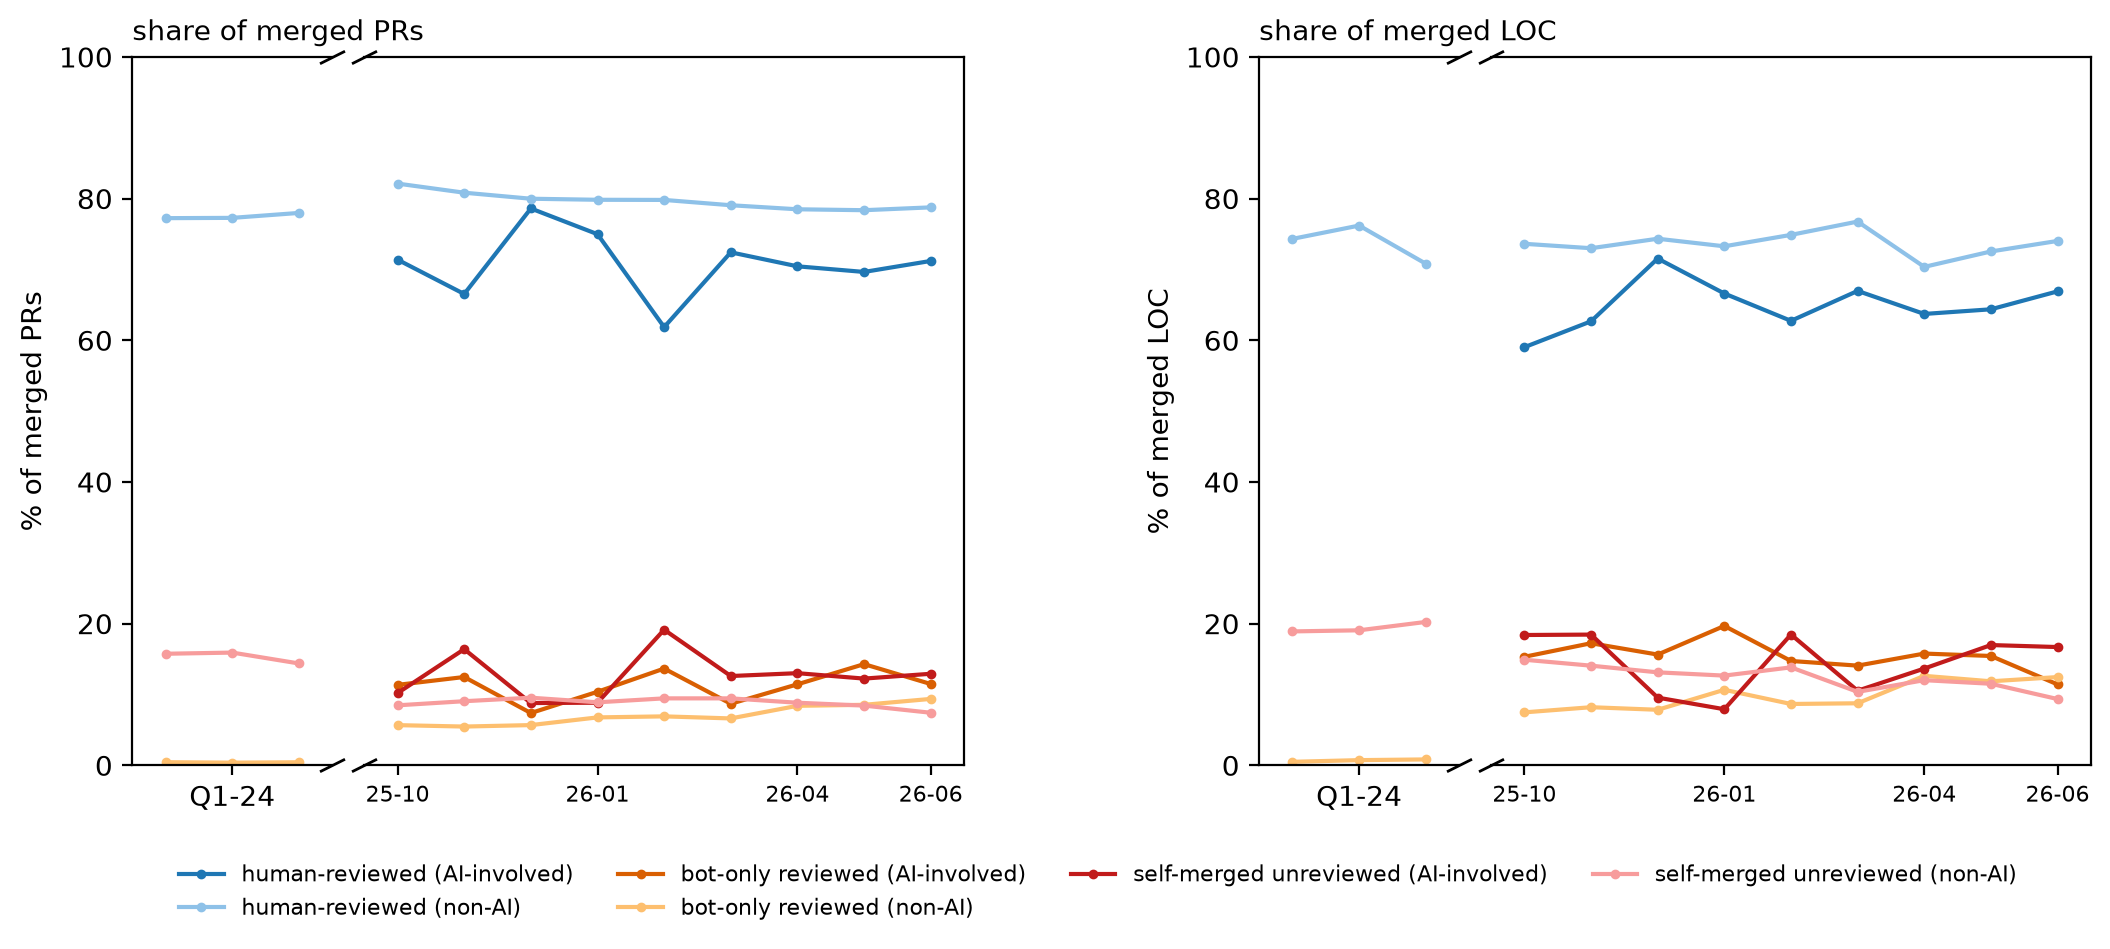
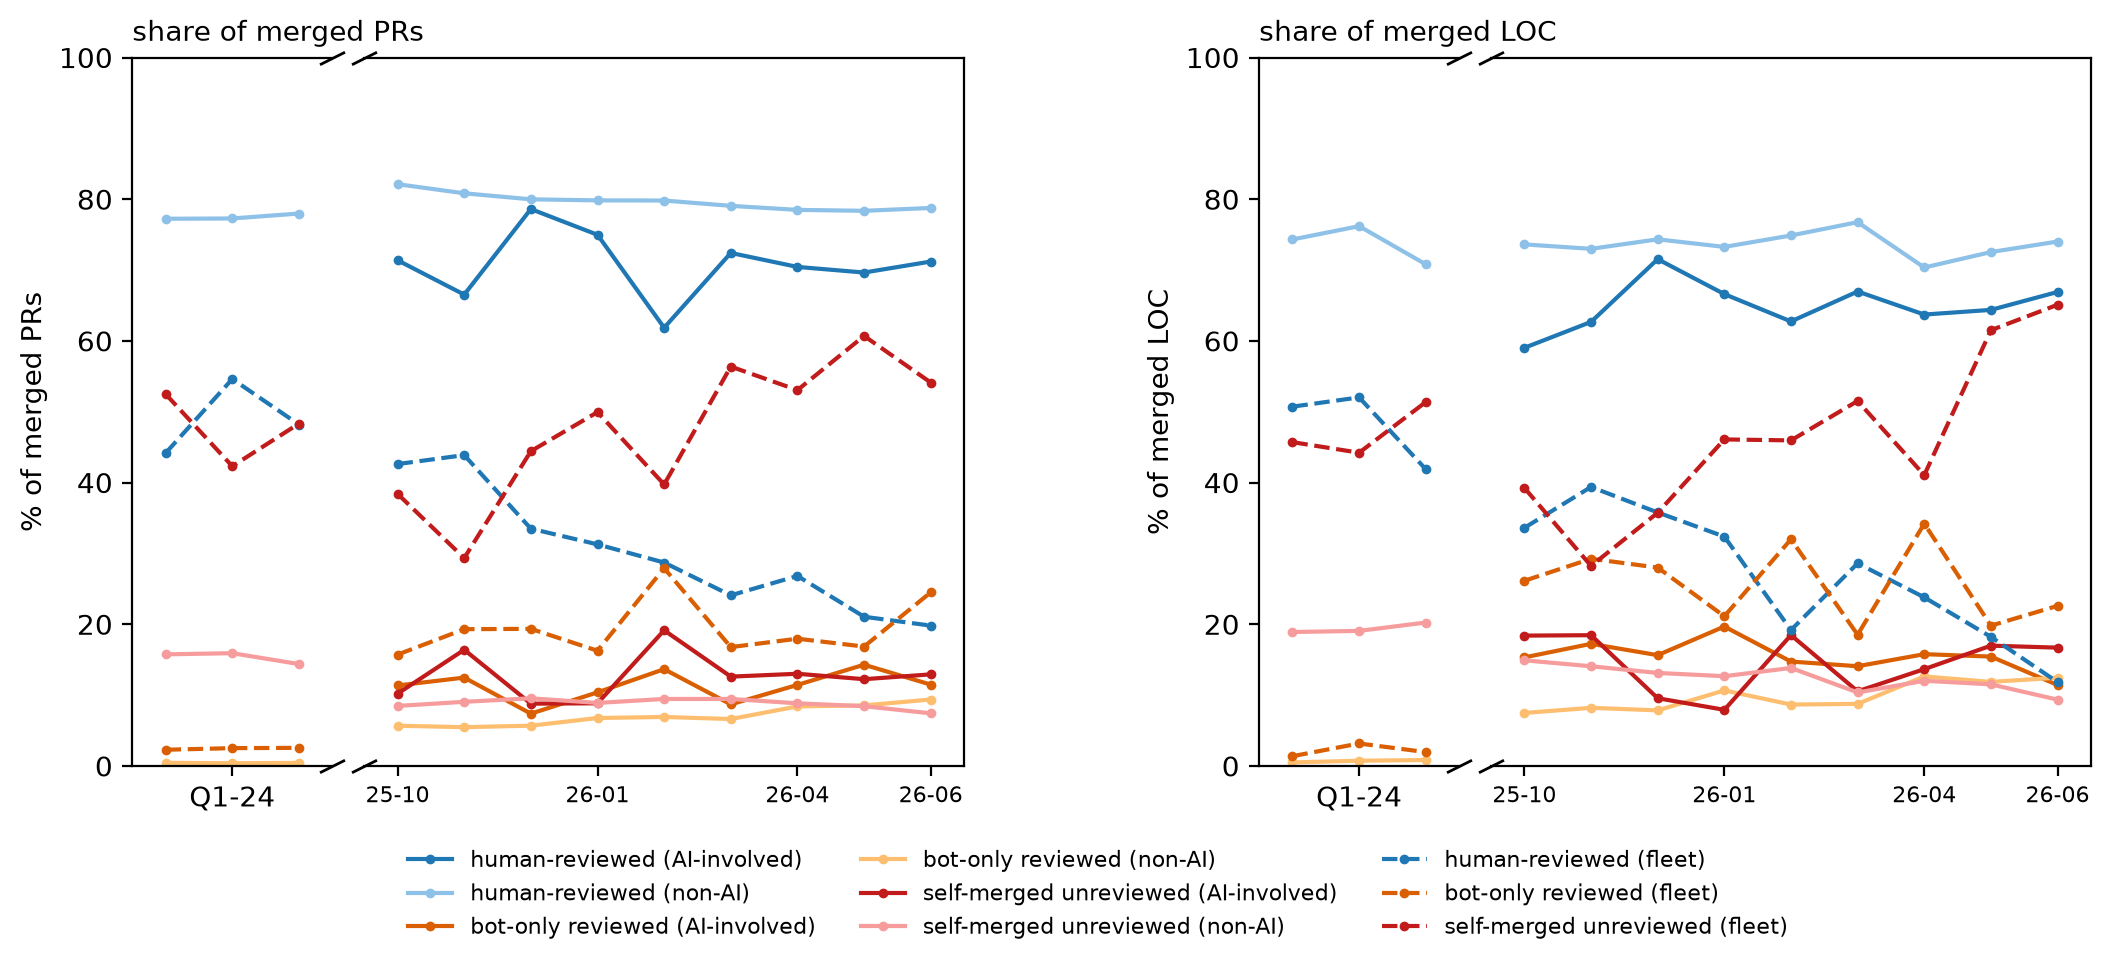
Codex review: fleet slice reaches Figure 6's monthly AI twin
The merge resolution threaded fleet through fig7's monthly twin but
missed fig6's: collect_monthly/render_monthly still used
paired_series6 and review_mix() without the fleet slice, so the monthly
by-AI table carried six series against the quarterly figure's nine.
The fleet flag now flows through collect_monthly, render_monthly and
monthly_figures() (role variant unchanged), and the by-AI monthly
table/image are regenerated with the fleet series.

diff --git a/scripts/plot_fig6_review.py b/scripts/plot_fig6_review.py
@@ -91,17 +91,21 @@ def render(t: Table, dark, light, fleet=False):
     return fig
 
 
-def collect_monthly(name, by, dark, light,
+def collect_monthly(name, by, dark, light, fleet=False,
                     window: list[str] | None = None) -> Table:
     """Monthly twin (plot_all --monthly): month-keyed rates over the
     baseline + window months; provisional months stay in, shaded at
-    render."""
+    render. `fleet` matches the quarterly variant, so the twins share
+    one population."""
     window = window or month_window()
     months = BASELINE + window
-    rows = review_mix(by, granularity="month", window=window)
+    rows = (review_mix(by, fleet_slice=True, granularity="month",
+                       window=window)
+            if fleet else review_mix(by, granularity="month",
+                                     window=window))
     t = Table(name)
     for unit, title, _ylabel in UNITS:
-        for ch, sl, _color, label in paired_series6(dark, light):
+        for ch, sl, _color, _ls, label in series_for(dark, light, fleet):
             t.add_series(unit, f"{ch}_{sl}",
                          [cell(rows, m, sl, f"{ch}_{unit}", scale=100)
                           for m in months],
@@ -110,23 +114,24 @@ def collect_monthly(name, by, dark, light,
     return t
 
 
-def render_monthly(t: Table, dark, light):
+def render_monthly(t: Table, dark, light, fleet=False):
     window = window_of(t)
     fig = plt.figure(figsize=(11, 4.6))
     subfigs = fig.subfigures(1, 2, wspace=0.05)
     for sf, (unit, _title, ylabel) in zip(subfigs.flat, UNITS):
         axl, axr = broken_pair(sf, t.label_of(unit), span="month",
                                window=window)
-        for ch, sl, color, label in paired_series6(dark, light):
+        for ch, sl, color, ls, label in series_for(dark, light, fleet):
             vals = t.values(unit, f"{ch}_{sl}")
             month_series(axl, axr, vals[:len(BASELINE)],
-                         vals[len(BASELINE):], color, label=label)
+                         vals[len(BASELINE):], color, ls=ls, label=label)
         shade_provisional(axr, window)
         axl.set_ylim(0, 100)
         axl.set_ylabel(ylabel)
     handles, labels = axr.get_legend_handles_labels()
-    fig.legend(handles, labels, loc="lower center", ncol=4, fontsize=8,
-               frameon=False, bbox_to_anchor=(0.5, -0.08))
+    fig.legend(handles, labels, loc="lower center",
+               ncol=3 if fleet else 4, fontsize=8, frameon=False,
+               bbox_to_anchor=(0.5, -0.1 if fleet else -0.08))
     return fig
 
 

diff --git a/scripts/plot_all.py b/scripts/plot_all.py
@@ -121,12 +121,12 @@ def monthly_figures(through: str | None = None) -> list[tuple]:
          paper.render_core_monthly),
         ("artifacts/review_mix_monthly.png",
          functools.partial(f6.collect_monthly, "review_mix_monthly",
-                           ROLE[0], ROLE[1], ROLE[2], window=w),
-         lambda t: f6.render_monthly(t, ROLE[1], ROLE[2])),
+                           ROLE[0], ROLE[1], ROLE[2], ROLE[4], window=w),
+         lambda t: f6.render_monthly(t, ROLE[1], ROLE[2], ROLE[4])),
         ("artifacts/review_mix_by_ai_monthly.png",
          functools.partial(f6.collect_monthly, "review_mix_by_ai_monthly",
-                           AI[0], AI[1], AI[2], window=w),
-         lambda t: f6.render_monthly(t, AI[1], AI[2])),
+                           AI[0], AI[1], AI[2], AI[4], window=w),
+         lambda t: f6.render_monthly(t, AI[1], AI[2], AI[4])),
         ("artifacts/attention_by_ai_monthly.png",
          functools.partial(f7.collect_monthly, window=w),
          f7.render_monthly),
